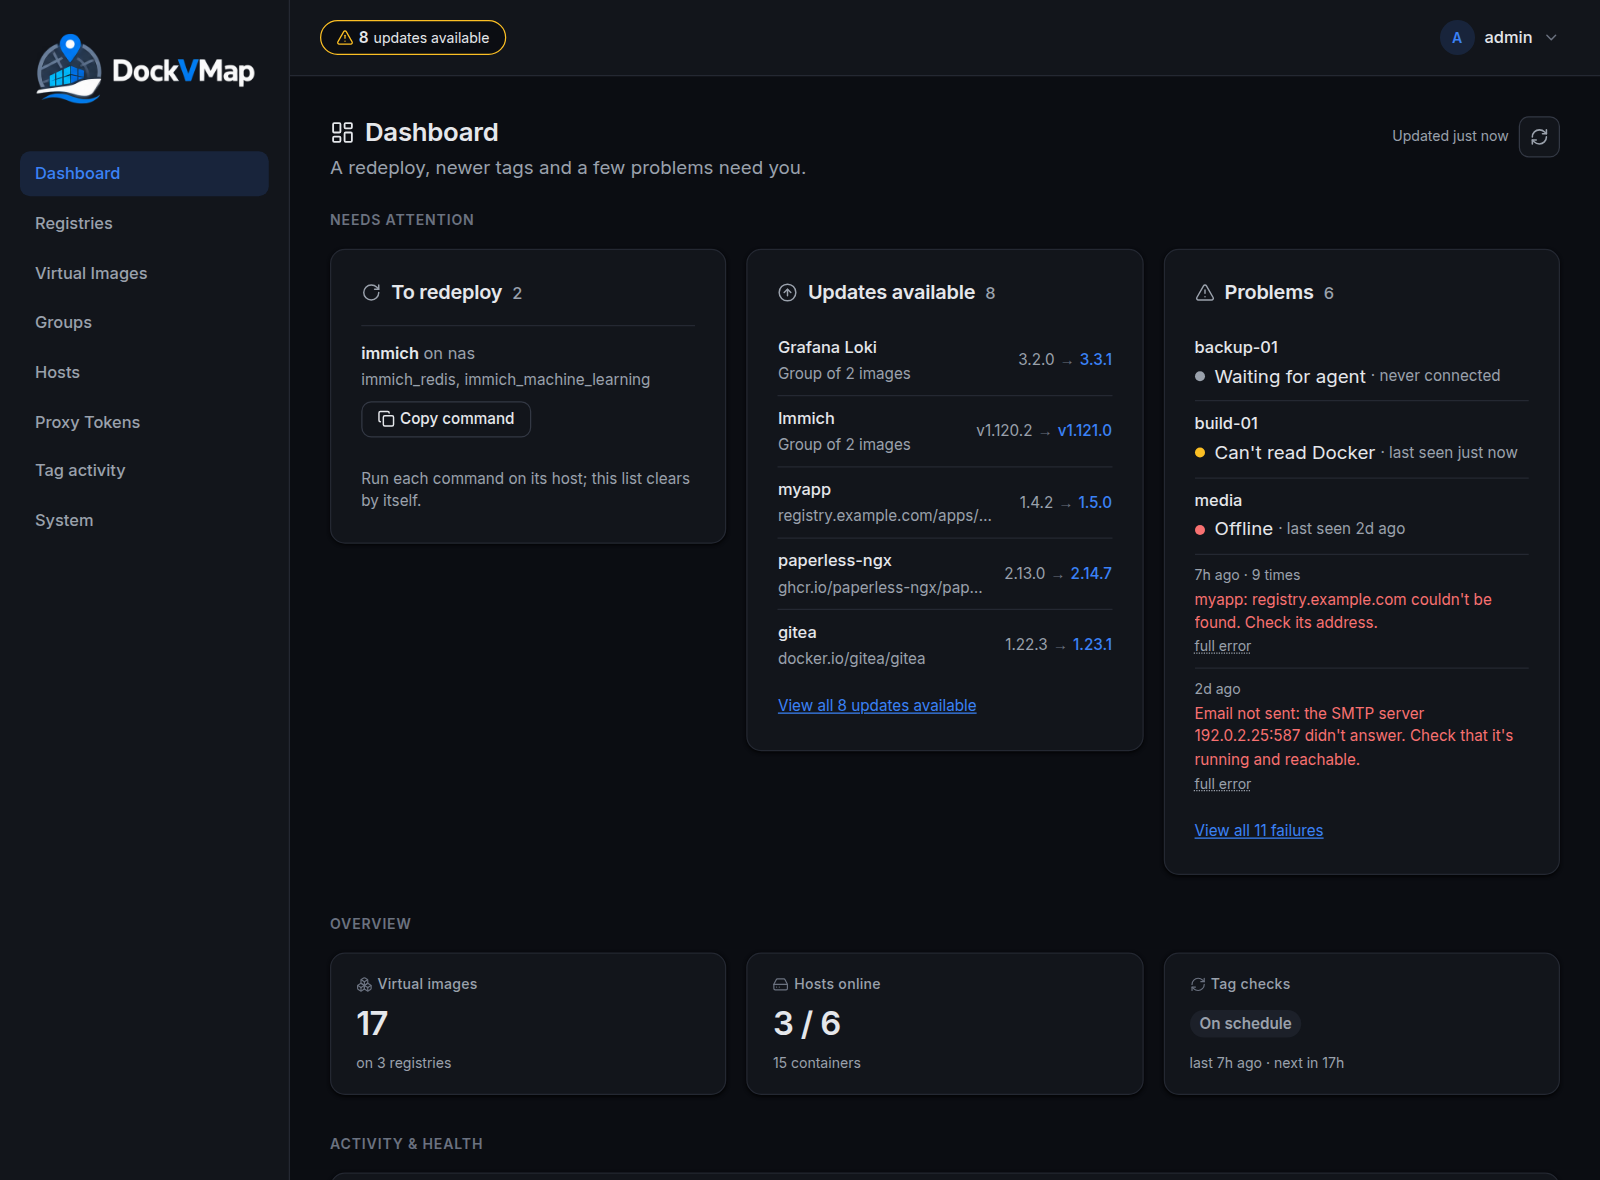
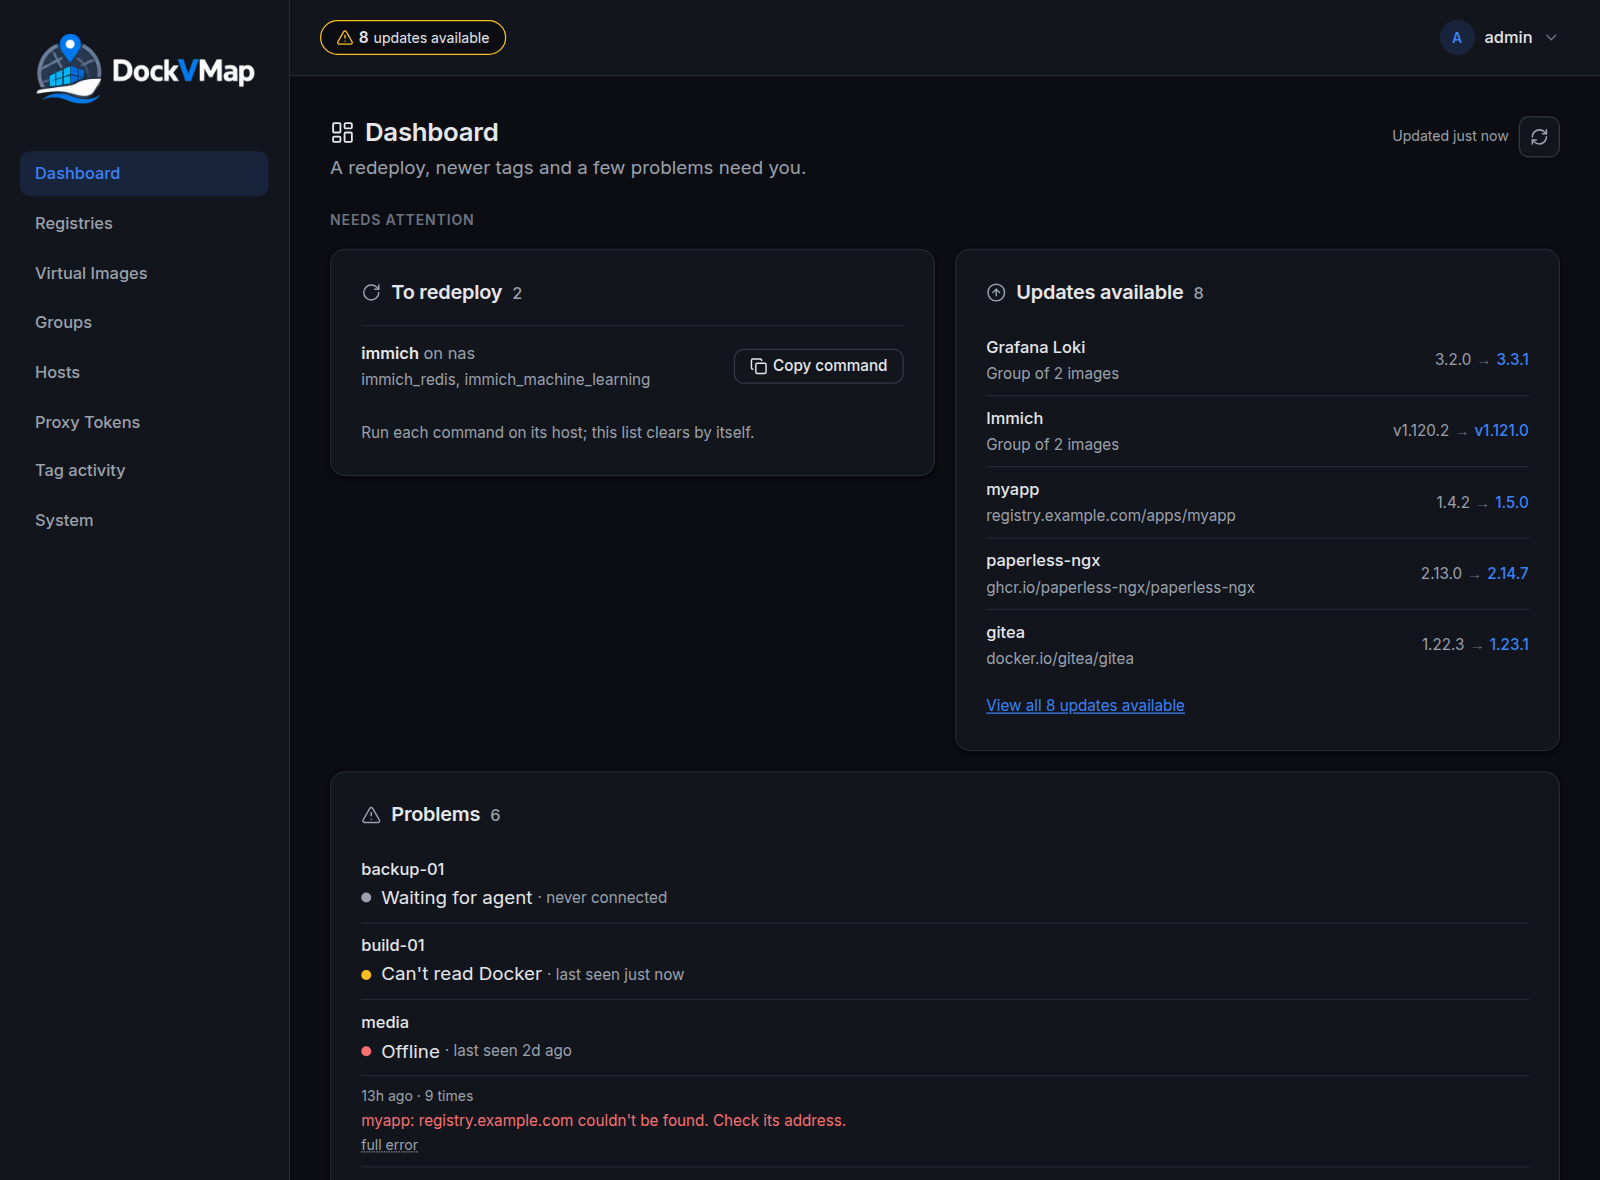
dashboard: redeploy and updates side by side, problems on a full-width row

diff --git a/frontend/src/routes/Dashboard.svelte b/frontend/src/routes/Dashboard.svelte
@@ -127,7 +127,9 @@
           trackedImages={sections.summary.data?.images.total ?? null}
           {onRetry}
         />
-        <ProblemsCard {...sections.issues} hosts={attention} {hasHosts} {onRetry} />
+        <div class="full-row">
+          <ProblemsCard {...sections.issues} hosts={attention} {hasHosts} {onRetry} />
+        </div>
       </div>
     </section>
 
@@ -193,13 +195,16 @@
   }
 
   .needs-attention {
-    grid-template-columns: minmax(0, 1.6fr) minmax(0, 1fr);
-    align-items: stretch;
+    grid-template-columns: 1fr;
+    align-items: start;
   }
 
   .needs-attention.with-hosts {
-    grid-template-columns: repeat(3, minmax(0, 1fr));
-    align-items: start;
+    grid-template-columns: repeat(2, minmax(0, 1fr));
+  }
+
+  .full-row {
+    grid-column: 1 / -1;
   }
 
   .summary-line {
@@ -212,8 +217,7 @@
     gap: var(--space-4);
   }
 
-  @media (max-width: 1100px) {
-    .needs-attention,
+  @media (max-width: 900px) {
     .needs-attention.with-hosts {
       grid-template-columns: 1fr;
     }

diff --git a/PROJECT.md b/PROJECT.md
@@ -393,7 +393,7 @@ A host is online when a poll succeeded within 3 intervals on the current protoco
 
 Redeploy commands come from `lib/utils/hosts.ts`: `redeployCommand` for one container (Running on's copy icon, `hosts/RedeployButton.svelte`) and `redeployGroups` for the dashboard's To redeploy card (`dashboard/RedeployCard.svelte`) and Host details' banner (`hosts/RedeployBanner.svelte`, shown only when something needs a redeploy, so a green check never sits above a crashed container), both listing the groups with `hosts/RedeployGroups.svelte`. `redeployGroups` groups containers with `needsUpdate` by host and compose project and folder, one command per group: `docker compose pull` only when one of them is `outdated`, then `up -d` for all of them. Both use the compose folder the agent reads from `com.docker.compose.project.working_dir`, never without it (agents before 1.11), and `cd` into it, so they assume the default compose file name and the project name compose derives there; a stack started with `-p` or `-f` needs its own command. Status wording: a container that runs its version says nothing (Running on says "Runs v4"); `needsUpdate` says "Needs a redeploy to run <tag>" (`tracking.tag`, the virtual image's current tag), whatever the status, since the command covers both cases.
 
-**Frontend.** `routes/Hosts.svelte`, `routes/HostDetails.svelte`, `lib/components/imageDetails/RunningOnCard.svelte` (outdated first, refreshed every 15s), `lib/components/hosts/RolloutSummary.svelte` (the one "N of M to redeploy" wording; nothing, or a plain count, when all run their version) and the dashboard's To redeploy and Problems cards and Hosts online tile. Dashboard order: one summary sentence, then Needs attention (To redeploy, Updates available, Problems, each with its count; Problems lists hosts that aren't current, from the hosts section's `attention`, before distinct failures), then three Overview tiles (Virtual images, Hosts online, Tag checks), then Proxy activity and Recent tag activity. Each number appears once on the page. The summary comes from `Hosts.ListWithBehind` in the dashboard request: every container with `NeedsUpdate` on current hosts (up to 200), plus the tracked container and host counts for the "all current" line, so it always matches the real count. Display rules live in `lib/utils/hosts.ts`; version and crash rules come from the server (`tracking.needsUpdate`, `crashed`). Hosts shows a hint when online hosts report containers but none came through the proxy address, the usual sign of a wrong `proxy_public_host`. A container whose virtual image was renamed or deleted shows its image as plain text, since blue means a link.
+**Frontend.** `routes/Hosts.svelte`, `routes/HostDetails.svelte`, `lib/components/imageDetails/RunningOnCard.svelte` (outdated first, refreshed every 15s), `lib/components/hosts/RolloutSummary.svelte` (the one "N of M to redeploy" wording; nothing, or a plain count, when all run their version) and the dashboard's To redeploy and Problems cards and Hosts online tile. Dashboard order: one summary sentence, then Needs attention (To redeploy and Updates available side by side, the version flow, then Problems on a full-width row, each with its count; Problems lists hosts that aren't current, from the hosts section's `attention`, before distinct failures), then three Overview tiles (Virtual images, Hosts online, Tag checks), then Proxy activity and Recent tag activity. Each number appears once on the page. The summary comes from `Hosts.ListWithBehind` in the dashboard request: every container with `NeedsUpdate` on current hosts (up to 200), plus the tracked container and host counts for the "all current" line, so it always matches the real count. Display rules live in `lib/utils/hosts.ts`; version and crash rules come from the server (`tracking.needsUpdate`, `crashed`). Hosts shows a hint when online hosts report containers but none came through the proxy address, the usual sign of a wrong `proxy_public_host`. A container whose virtual image was renamed or deleted shows its image as plain text, since blue means a link.
 
 **Dev.** `make dev` also runs `make dev-agent` when `data/agent/` exists: the agent listens on `127.0.0.1:9002`; add a host `127.0.0.1` once in the dev UI. `internal/agent`'s tests run the real agent against a fake Docker on a unix socket through `agentclient`; `internal/service`'s host tests use a fake `agentDialer`. End-to-end checks use a real agent container against a scratch controller, never a second Docker daemon on the host network.
 

diff --git a/CHANGELOG.md b/CHANGELOG.md
@@ -2,6 +2,10 @@
 
 Changes people running DockVMap will notice, newest first. Upgrade notes call out anything to do before or after upgrading.
 
+## v1.12.1 (2026-11-07)
+
+- **Dashboard**: To redeploy and Updates available share the first row, and Problems has a full-width row of its own below them, so each card has room for its rows: a stack's Copy command sits next to its containers, and a failure fits on one line.
+
 ## v1.12.0 (2026-11-07)
 
 - **Dashboard, reorganized**: one sentence at the top says what needs you ("A redeploy, newer tags and a few problems need you", or "Everything is running as you set it"). Below it, Needs attention comes first as three cards with their counts: To redeploy, Updates available and Problems, which now also lists hosts that are offline, can't read Docker or never connected. The overview is three tiles (Virtual images, Hosts online, which now counts only hosts, and Tag checks), and every number appears once on the page: the Updates, Failed checks and Image pulls tiles are gone, since the cards and Proxy activity already show them.
